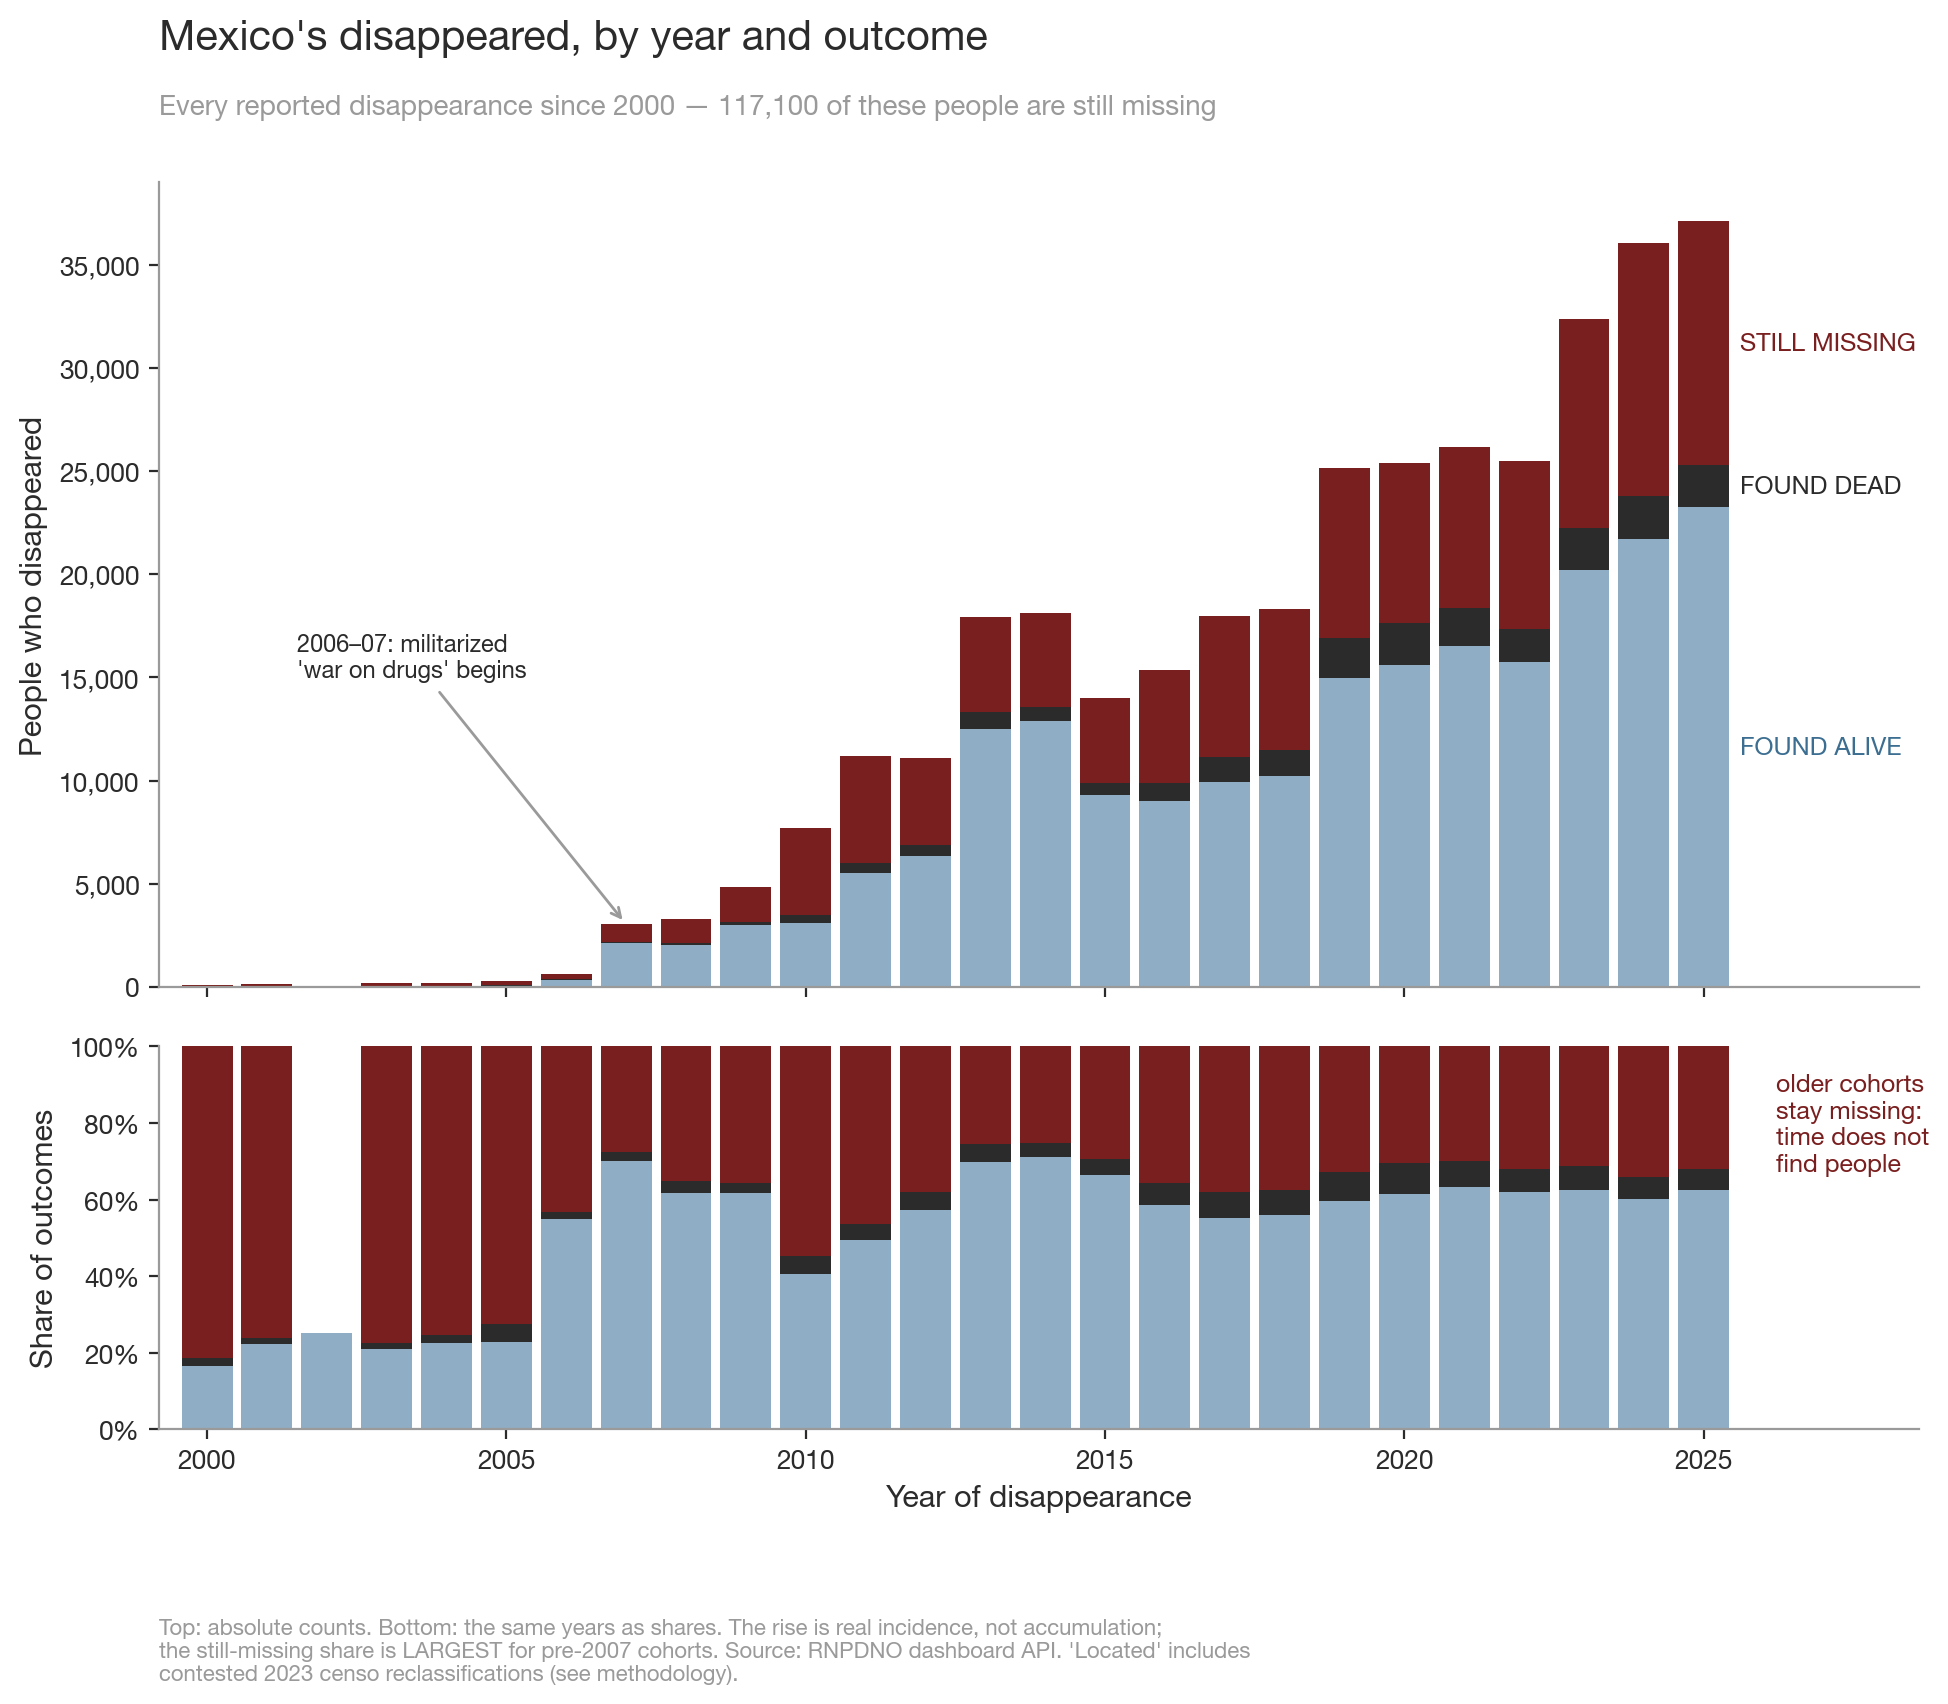
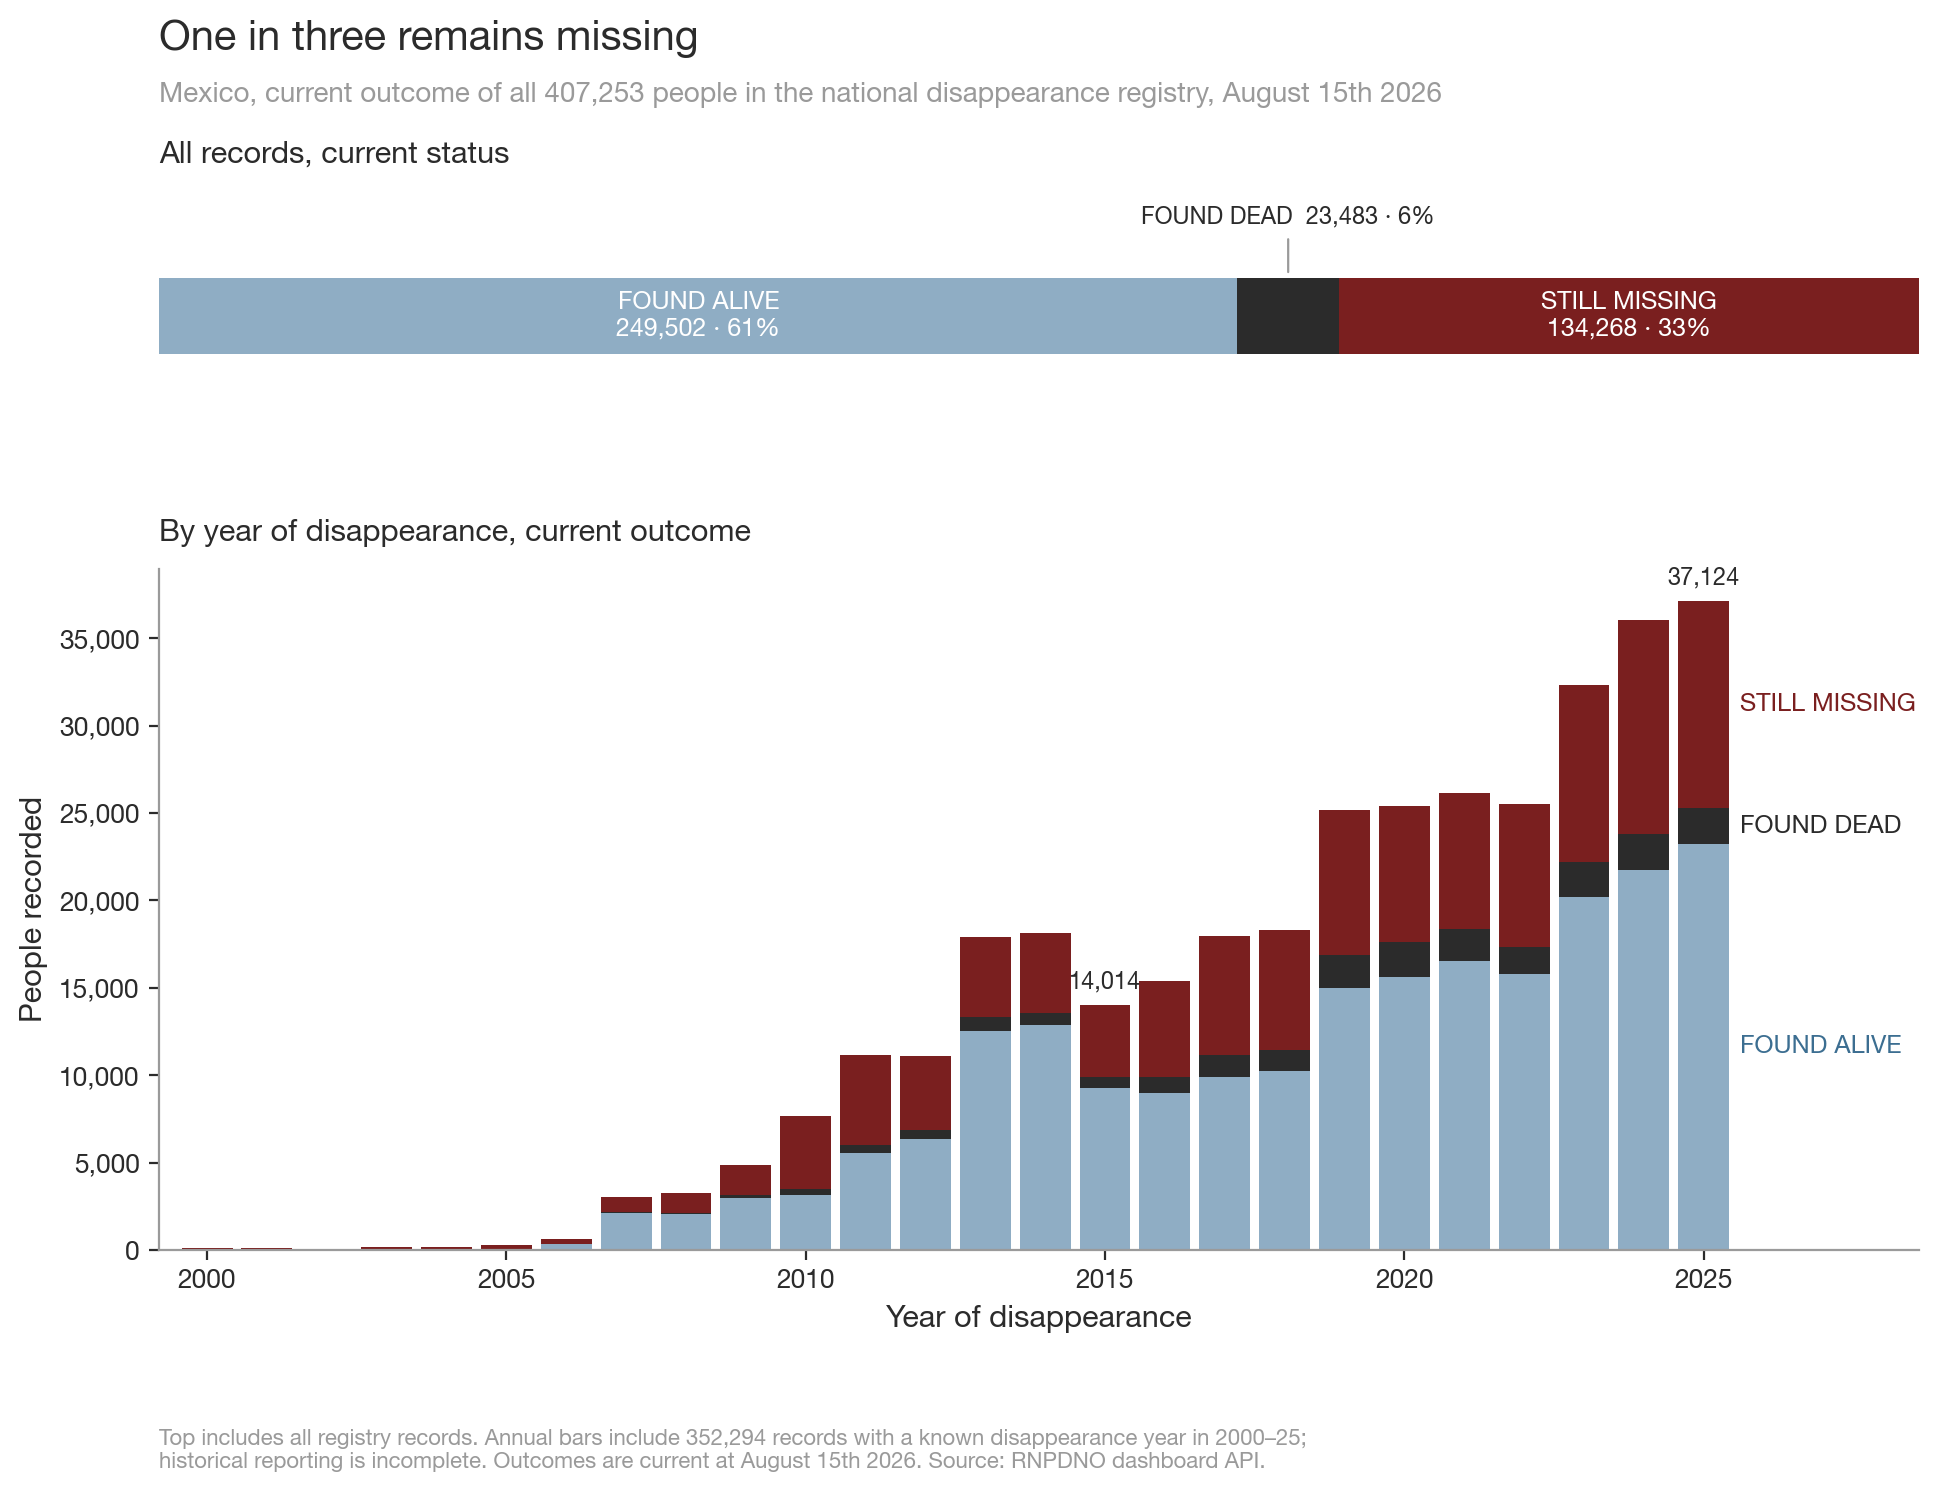
Land Codex's fig A rebuild with the freeze inputs it needs
Commits src/article_figs.py and reports/figures/article/A_outcomes_by_year.png
together so the repo's figure matches the script that produces it. Verified: the
script regenerates the committed PNG byte-identically, and leaves B, C and D
unchanged.

fig_a() now draws two panels. The new top panel is a single bar reconciling every
record in the registry to its current recorded status — 249,502 found alive,
23,483 found dead, 134,268 still missing, summing to 407,253 — and raises if those
components do not add to TotalGlobal, so a bad capture fails loudly instead of
producing a plausible chart. The lower panel is the by-year view, retitled to make
clear it shows current outcome by year of disappearance.

It reads from data/publication_freezes/2026-08-15/ rather than data/processed/,
so the published figure is pinned to a dated capture instead of whatever the
pipeline last wrote.

Also commits, deliberately, three small freeze files that the .gitignore rules
would otherwise have excluded:

  manifest.json                        6.5 KB  (capture times, source hashes)
  derived/flow_by_year.csv             2.3 KB  (fig A's year table)
  sources/rnpdno_api/totales.json      487 B   (fig A's headline totals)

Without these the committed script cannot run from a clean clone, and the freeze
would not be verifiable by anyone else — re-running the fetch does not recover it,
because the API is live and returns different numbers by definition. The intent of
[…]

diff --git a/src/article_figs.py b/src/article_figs.py
@@ -3,7 +3,7 @@
 Rebuilds fig 19 / 06 / 09 / 10 in the shared article style (article_style.py)
 without touching the pipeline scripts or their numbered outputs.
 
-  A_outcomes_by_year.png       <- data/processed/flow_by_year.csv
+  A_outcomes_by_year.png       <- frozen RNPDNO totals + flow_by_year.csv
   B_rate_map.png               <- data/processed/state_rates.csv + mexico.json
   C_confidential_share.png     <- data/processed/rnpdno_clean.parquet
   D_redaction_vs_rate.png      <- parquet + state_rates.csv (join on cve_ent)
@@ -25,7 +25,9 @@ from matplotlib.patches import Patch, Polygon as MplPolygon
 import article_style as st
 
 ROOT = Path(__file__).resolve().parents[1]
-FLOW = ROOT / "data" / "processed" / "flow_by_year.csv"
+FREEZE = ROOT / "data" / "publication_freezes" / "2026-08-15"
+FLOW = FREEZE / "derived" / "flow_by_year.csv"
+TOTALS = FREEZE / "sources" / "rnpdno_api" / "totales.json"
 PARQUET = ROOT / "data" / "processed" / "rnpdno_clean.parquet"
 RATES = ROOT / "data" / "processed" / "state_rates.csv"
 GEO = ROOT / "data" / "external" / "assets" / "mexico.json"
@@ -36,6 +38,22 @@ CASE_BLUE = {"12": "Guerrero", "06": "Colima"}     # omission-mode case states
 
 
 def fig_a():
+    totals = json.loads(TOTALS.read_text(encoding="utf-8"))
+
+    def as_int(key: str) -> int:
+        return int(totals[key].replace(",", ""))
+
+    all_status = pd.Series(
+        {
+            "Found alive": as_int("TotalLocalizadosCV"),
+            "Found dead": as_int("TotalLocalizadosSV"),
+            "Still missing": as_int("TotalDesaparecidos"),
+        }
+    )
+    all_records = as_int("TotalGlobal")
+    if int(all_status.sum()) != all_records:
+        raise ValueError("RNPDNO outcome totals do not reconcile to TotalGlobal")
+
     df = pd.read_csv(FLOW, index_col=0)
     df.index = pd.to_numeric(df.index, errors="coerce")
     df = df[df.index.notna()]
@@ -46,46 +64,84 @@ def fig_a():
     yrs, cols = d.index, ["Found alive", "Found dead", "Still missing"]
     colors = [ALIVE, st.INK, st.RED]
 
-    fig, (ax1, ax2) = plt.subplots(2, 1, figsize=(10, 8.6), sharex=True,
-                                   gridspec_kw={"height_ratios": [2.1, 1]})
-    fig.subplots_adjust(left=0.09, right=0.97, top=0.885, bottom=0.16, hspace=0.10)
-    st.title(fig, "Mexico's disappeared, by year and outcome",
-             f"Every reported disappearance since 2000 — {int(d['Still missing'].sum()):,} of these people are still missing",
+    fig, (ax0, ax1) = plt.subplots(
+        2,
+        1,
+        figsize=(10, 7.5),
+        gridspec_kw={"height_ratios": [0.9, 3.2]},
+    )
+    fig.subplots_adjust(left=0.09, right=0.97, top=0.87, bottom=0.16, hspace=0.44)
+    st.title(fig, "One in three remains missing",
+             f"Mexico, current outcome of all {all_records:,} people in the national disappearance registry, August 15th 2026",
              x=0.09)
+
+    # Complete all-period accounting: one compact bar that reconciles every
+    # registry record, including records without a usable disappearance year.
+    ax0.set_title("All records, current status", loc="left", pad=8, fontsize=11,
+                  weight="bold")
+    left = 0
+    for label, color in zip(cols, colors):
+        value = int(all_status[label])
+        ax0.barh(0, value, left=left, height=0.48, color=color)
+        centre = left + value / 2
+        pct = value / all_records
+        if label == "Found dead":
+            ax0.annotate(
+                f"FOUND DEAD  {value:,} · {pct:.0%}",
+                xy=(centre, 0.24),
+                xytext=(centre, 0.55),
+                ha="center",
+                va="bottom",
+                fontsize=8.5,
+                weight="bold",
+                color=st.INK,
+                arrowprops=dict(arrowstyle="-", color=st.MUTED, lw=0.8),
+            )
+        else:
+            ax0.text(
+                centre,
+                0,
+                f"{label.upper()}\n{value:,} · {pct:.0%}",
+                ha="center",
+                va="center",
+                fontsize=9,
+                weight="bold",
+                color="white",
+            )
+        left += value
+    ax0.set_xlim(0, all_records)
+    ax0.set_ylim(-0.38, 0.82)
+    ax0.axis("off")
 
     bottom = pd.Series(0.0, index=yrs)
     for c, col in zip(cols, colors):
         ax1.bar(yrs, d[c], bottom=bottom, color=col, width=0.85)
         bottom += d[c]
-    # direct band labels at the right edge instead of a legend
+    ax1.set_title("By year of disappearance, current outcome", loc="left", pad=10,
+                  fontsize=11, weight="bold")
+    # Direct band labels at the right edge instead of a legend.
     y_cum = d.loc[2025].cumsum()
     for c, col in zip(cols, [st.BLUE, st.INK, st.RED]):
         ymid = y_cum[c] - d.loc[2025, c] / 2
         ax1.annotate(c.upper(), xy=(2025.6, ymid), fontsize=9, weight="bold",
                      color=col, va="center", annotation_clip=False)
-    ax1.set_ylabel("People who disappeared")
+    ax1.set_ylabel("People recorded")
     ax1.yaxis.set_major_formatter(mticker.StrMethodFormatter("{x:,.0f}"))
     ax1.set_xlim(1999.2, 2028.6)
-    ax1.annotate("2006–07: militarized\n'war on drugs' begins",
-                 xy=(2007, d.loc[2007].sum()), xytext=(2001.5, 15000),
-                 fontsize=8.5, color=st.INK,
-                 arrowprops=dict(arrowstyle="->", color=st.MUTED, lw=1))
+    ax1.set_xlabel("Year of disappearance")
+    ax1.set_xticks([2000, 2005, 2010, 2015, 2020, 2025])
 
-    share = d.div(d.sum(axis=1), axis=0)
-    bottom = pd.Series(0.0, index=yrs)
-    for c, col in zip(cols, colors):
-        ax2.bar(yrs, share[c], bottom=bottom, color=col, width=0.85)
-        bottom += share[c]
-    ax2.set_ylim(0, 1)
-    ax2.set_ylabel("Share of outcomes")
-    ax2.yaxis.set_major_formatter(mticker.PercentFormatter(xmax=1))
-    ax2.set_xlabel("Year of disappearance")
-    ax2.annotate("older cohorts\nstay missing:\ntime does not\nfind people", xy=(2026.2, 0.93),
-                 va="top", fontsize=9, color=st.RED, weight="bold", annotation_clip=False)
+    for year in (2015, 2025):
+        total = int(d.loc[year].sum())
+        ax1.text(year, total + 650, f"{total:,}", ha="center", va="bottom",
+                 fontsize=8.5, weight="bold", color=st.INK)
 
-    st.caption(fig, "Top: absolute counts. Bottom: the same years as shares. The rise is real incidence, not accumulation;\n"
-                    "the still-missing share is LARGEST for pre-2007 cohorts. Source: RNPDNO dashboard API. 'Located' includes\n"
-                    "contested 2023 censo reclassifications (see methodology).", x=0.09)
+    st.caption(
+        fig,
+        "Top includes all registry records. Annual bars include 352,294 records with a known disappearance year in 2000–25;\n"
+        "historical reporting is incomplete. Outcomes are current at August 15th 2026. Source: RNPDNO dashboard API.",
+        x=0.09,
+    )
     st.save(fig, "A_outcomes_by_year.png")
 
 
